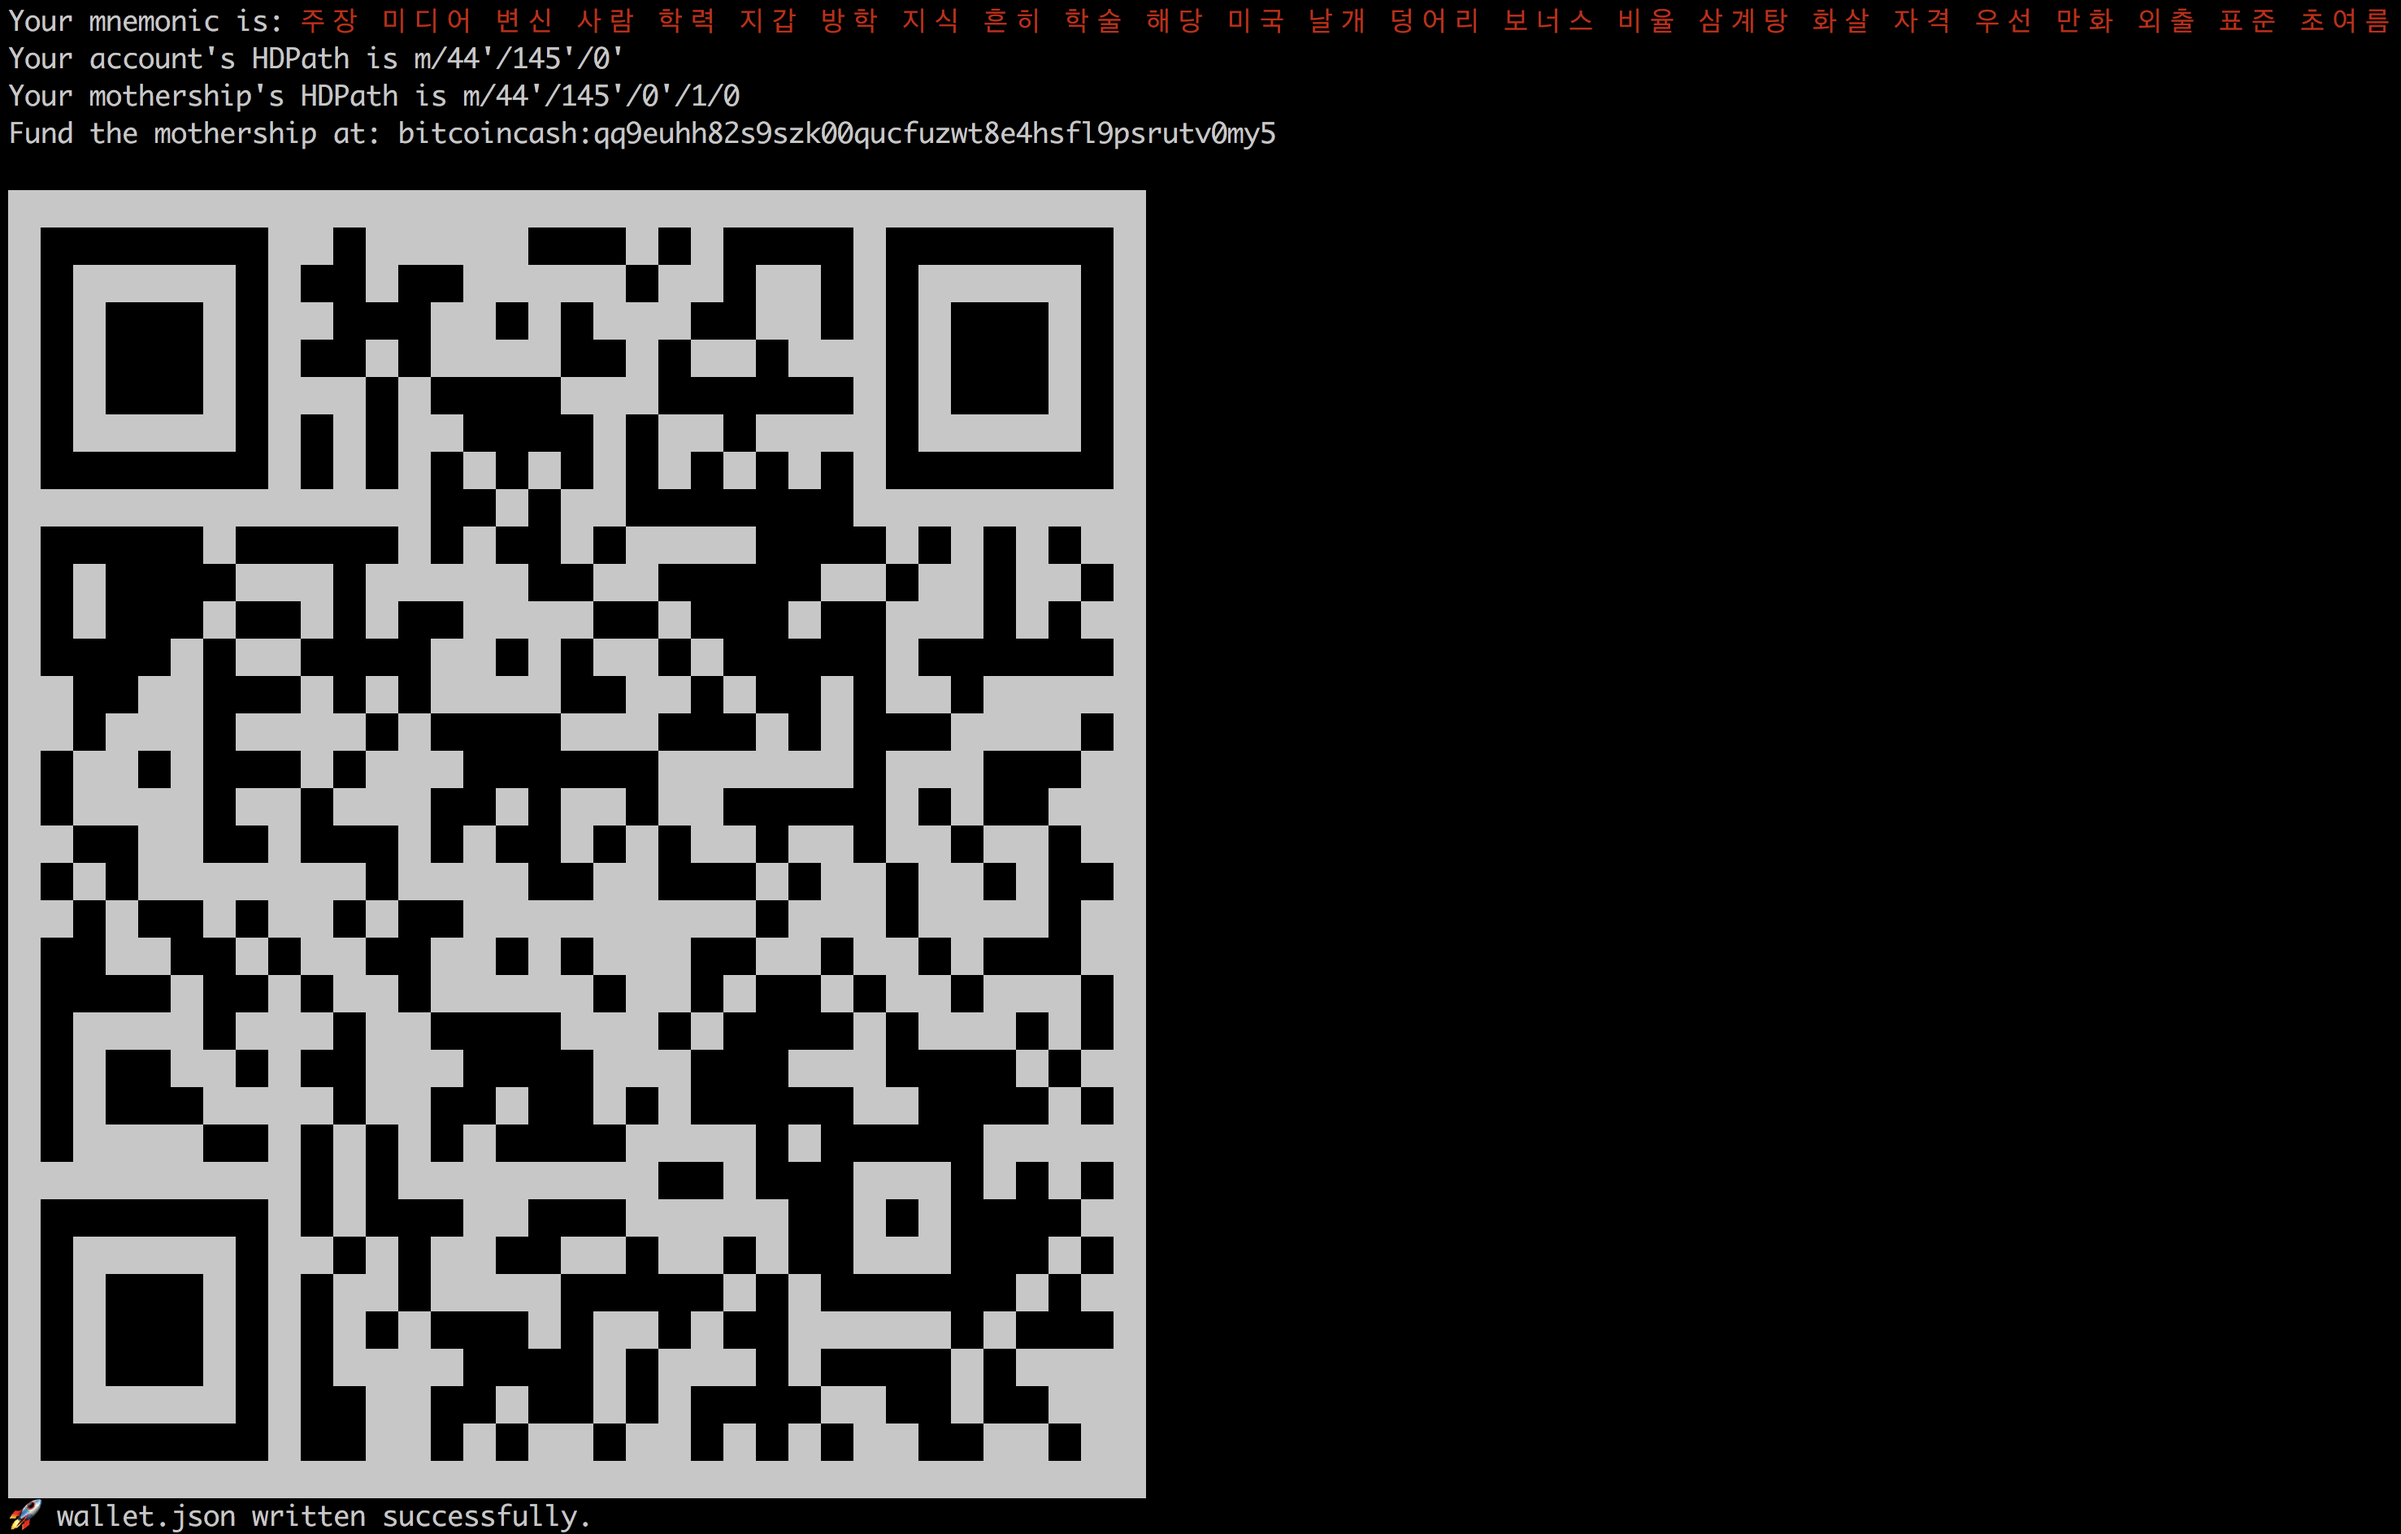
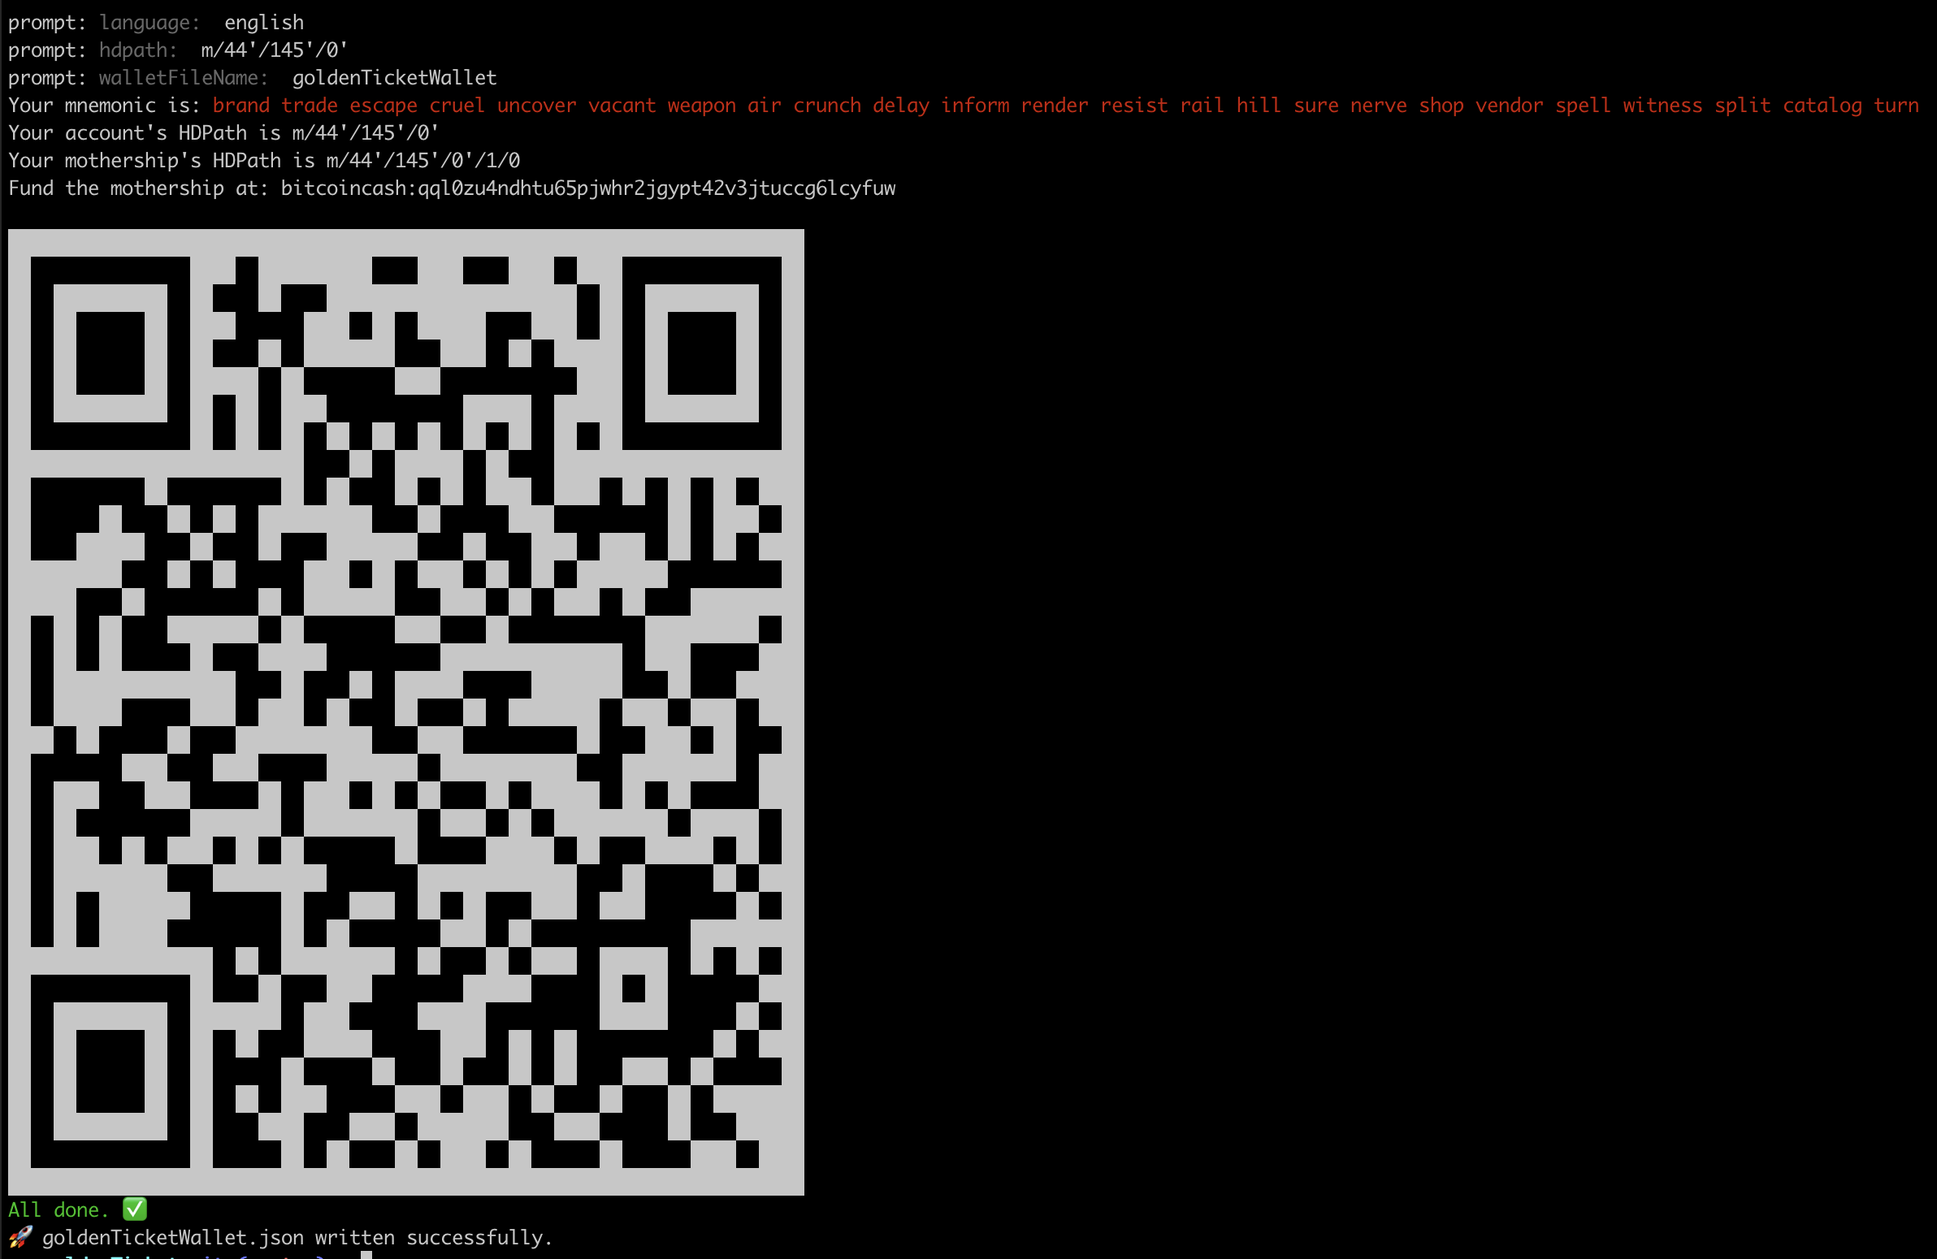
Update code and readme for generate-wallet.

Changed region(s): [[0.0, 0.0, 0.9933, 1.0], [0.6518, 0.0619, 0.9002, 0.0929], [0.9312, 0.0619, 0.9622, 0.0929]]

diff --git a/generate-wallet.js b/generate-wallet.js
@@ -1,94 +1,73 @@
-const BITBOXCli = require("bitbox-cli/lib/bitbox-cli").default;
-const BITBOX = new BITBOXCli();
-const fs = require("fs");
-const qrcode = require("qrcode-terminal");
-const emoji = require("node-emoji");
-const chalk = require("chalk");
-const prompt = require("prompt");
+"use strict"
+const BITBOXCli = require("bitbox-cli/lib/bitbox-cli").default
+const BITBOX = new BITBOXCli()
+const fs = require("fs")
+const qrcode = require("qrcode-terminal")
+const emoji = require("node-emoji")
+const chalk = require("chalk")
+const prompt = require("prompt")
 
-console.log(chalk.green("All done."), emoji.get(":white_check_mark:"));
+const main = async () => {
+  // start the prompt to get user input
+  prompt.start()
 
-let main = async () => {
-  prompt.start();
+  // ask for language, hdpath and walletFileName
+  prompt.get(["language", "hdpath", "walletFileName"], (err, result) => {
+    // generate mnemonic based on language input. Default to english
+    const mnemonic = BITBOX.Mnemonic.generate(
+      256,
+      BITBOX.Mnemonic.wordLists()[
+        result.language ? result.language.toLowerCase() : "english"
+      ]
+    )
+    // show the user their mnemoninc
+    console.log(`Your mnemonic is: ${chalk.red(mnemonic)}`)
 
-  prompt.get(
-    ["language", "hdpath", "numberOfTickets", "tiers"],
-    (err, result) => {
-      let mnemonic = BITBOX.Mnemonic.generate(
-        256,
-        BITBOX.Mnemonic.wordLists()[
-          result.language ? result.language.toLowerCase() : "english"
-        ]
-      );
-      console.log(`Your mnemonic is: ${chalk.red(mnemonic)}`);
+    // root seed buffer
+    const rootSeed = BITBOX.Mnemonic.toSeed(mnemonic)
 
-      // root seed buffer
-      const rootSeed = BITBOX.Mnemonic.toSeed(mnemonic);
+    // master HDNode
+    const masterHDNode = BITBOX.HDNode.fromSeed(rootSeed)
 
-      // master HDNode
-      const masterHDNode = BITBOX.HDNode.fromSeed(rootSeed);
+    // set the hdpath based on input. Default to BCH BIP44
+    let hdpath
+    if (result.hdpath) hdpath = result.hdpath
+    else hdpath = "m/44'/145'/0'"
 
-      let hdpath;
-      if (result.hdpath) {
-        hdpath = result.hdpath;
-      } else {
-        hdpath = "m/44'/145'/0'";
-      }
+    console.log(`Your account's HDPath is ${hdpath}`)
+    // HDNode of BIP44 account
+    const account = BITBOX.HDNode.derivePath(masterHDNode, hdpath)
 
-      console.log(`Your account's HDPath is ${hdpath}`);
-      // HDNode of BIP44 account
-      const account = BITBOX.HDNode.derivePath(masterHDNode, hdpath);
+    // HDNode of first internal change address
+    const mothership = BITBOX.HDNode.derivePath(account, `1/0`)
+    console.log(`Your mothership's HDPath is ${hdpath}/1/0`)
 
-      // HDNode of first internal change address
-      const mothership = BITBOX.HDNode.derivePath(account, `1/0`);
-      console.log(`Your mothership's HDPath is ${hdpath}/1/0`);
+    // mothership HDNode to cashAddr
+    const mothershipAddress = BITBOX.HDNode.toCashAddress(mothership)
 
-      // mothership HDNode to cashAddr
-      const mothershipAddress = BITBOX.HDNode.toCashAddress(mothership);
+    // show mothership address qr code
+    console.log(`Fund the mothership at: ${mothershipAddress}\n`)
+    qrcode.generate(mothershipAddress)
 
-      let numberOfTickets;
-      if (result.numberOfTickets) {
-        numberOfTickets = result.numberOfTickets;
-      } else {
-        numberOfTickets = 100;
-      }
-
-      let tiers;
-      if (result.tiers) {
-        tiers = result.tiers;
-      } else {
-        tiers = [[1, numberOfTickets]];
-      }
-
-      console.log(`Your tiers are: ${tiers}`);
-
-      // show mothership address qr code
-      console.log(`Fund the mothership at: ${mothershipAddress}\n`);
-      qrcode.generate(mothershipAddress);
-
-      // mnemonic and mothership address to save in basic wallet
-      let mnemonicObj = {
-        mnemonic: mnemonic,
-        hdpath: hdpath,
-        tiers: tiers,
-        mothershipAddress: mothershipAddress,
-        numberOfTickets: numberOfTickets
-      };
-
-      // Write out the basic wallet into a json file for other scripts  to use.
-      fs.writeFile(
-        "wallet1.json",
-        JSON.stringify(mnemonicObj, null, 2),
-        err => {
-          if (err) return console.error(err);
-          console.log(
-            emoji.get(":rocket:"),
-            `wallet.json written successfully.`
-          );
-        }
-      );
+    // mnemonic, hdpath and mothership address to save in basic wallet
+    const mnemonicObj = {
+      mnemonic: mnemonic,
+      hdpath: hdpath,
+      mothershipAddress: mothershipAddress
     }
-  );
-};
 
-main();
+    // get walletFileName from user. Default to wallet.json
+    let wfn = "goldenTicketWallet.json"
+    if (result.walletFileName) wfn = `${result.walletFileName}.json`
+
+    // Write out the basic wallet into a json file for other scripts  to use.
+    fs.writeFile(`${wfn}`, JSON.stringify(mnemonicObj, null, 2), err => {
+      if (err) return console.error(err)
+
+      console.log(chalk.green("All done."), emoji.get(":white_check_mark:"))
+      console.log(emoji.get(":rocket:"), `${wfn} written successfully.`)
+    })
+  })
+}
+
+main()

diff --git a/README.md b/README.md
@@ -37,17 +37,13 @@ Create a 256 bit mnemonic in any of the following languages
 
 `npm run generate-wallet`
 
-You'll be prompted for a language. You can enter any of the 8 listed above. If you don't enter a language Golden Ticket will default to English.
+You'll be prompted for a language. You can enter any of the 8 listed above. If you don't enter a language Golden Ticket will default to english.
 
 Next you'll be promted for an HDpath. If you enter nothing Golden Ticket will default to the first BIP44 account of your mnemonic. ie: `m/44'/145'/0'`
 
-Then you'll be prompted for the number of tickets that you intend to fund. It will default to 100.
+Finally you'll be prompted for a wallet name. Don't include the file extension. If you enter nothing it will default to a `wallet.json` file and write to it your mnemonic, hdPath and mothership address.
 
-You'll also be prompted for your tiers. This is how much $ you want to give to `n` number of addresses. For example if you want to give $1 to 99 tickets and $10 to 1 goldend ticket your tiers would be `[[1, 99], [10, 1]]`
-
-Golden Ticket will create a `wallet.json` file and write to it your mnemonic, mothership address, number of tickets and HD path.
-
-Lastly Golden Ticket will show you a QR code of your mothership address. The HD path for the mother ship address is `hdpath/1/0`.
+Lastly Golden Ticket will show you a QR code of your mothership address. The HD path for the mother ship address is `hdpath/1/0`. The mothership address is the address which you intially fund which then funds all the generated addresses.
 
 ![generate-wallet](images/generate-wallet.png)
 
@@ -64,10 +60,3 @@ Run `npm run redeem-unclaimed-funds` to have funds sent back to the funders cash
 ## Generate Stats
 
 Run `npm run generate-stats` to generate basic stats about your event.
-
-```
-Ticket count: Total 100, claimed 75, unclaimed 25
-$1 breakdown: claimed 80, unclaimed 19
-$10 breakdown: claimed 1, unclaimed 0
-Total funds claimed: claimed 81, unclaimed 19
-```
